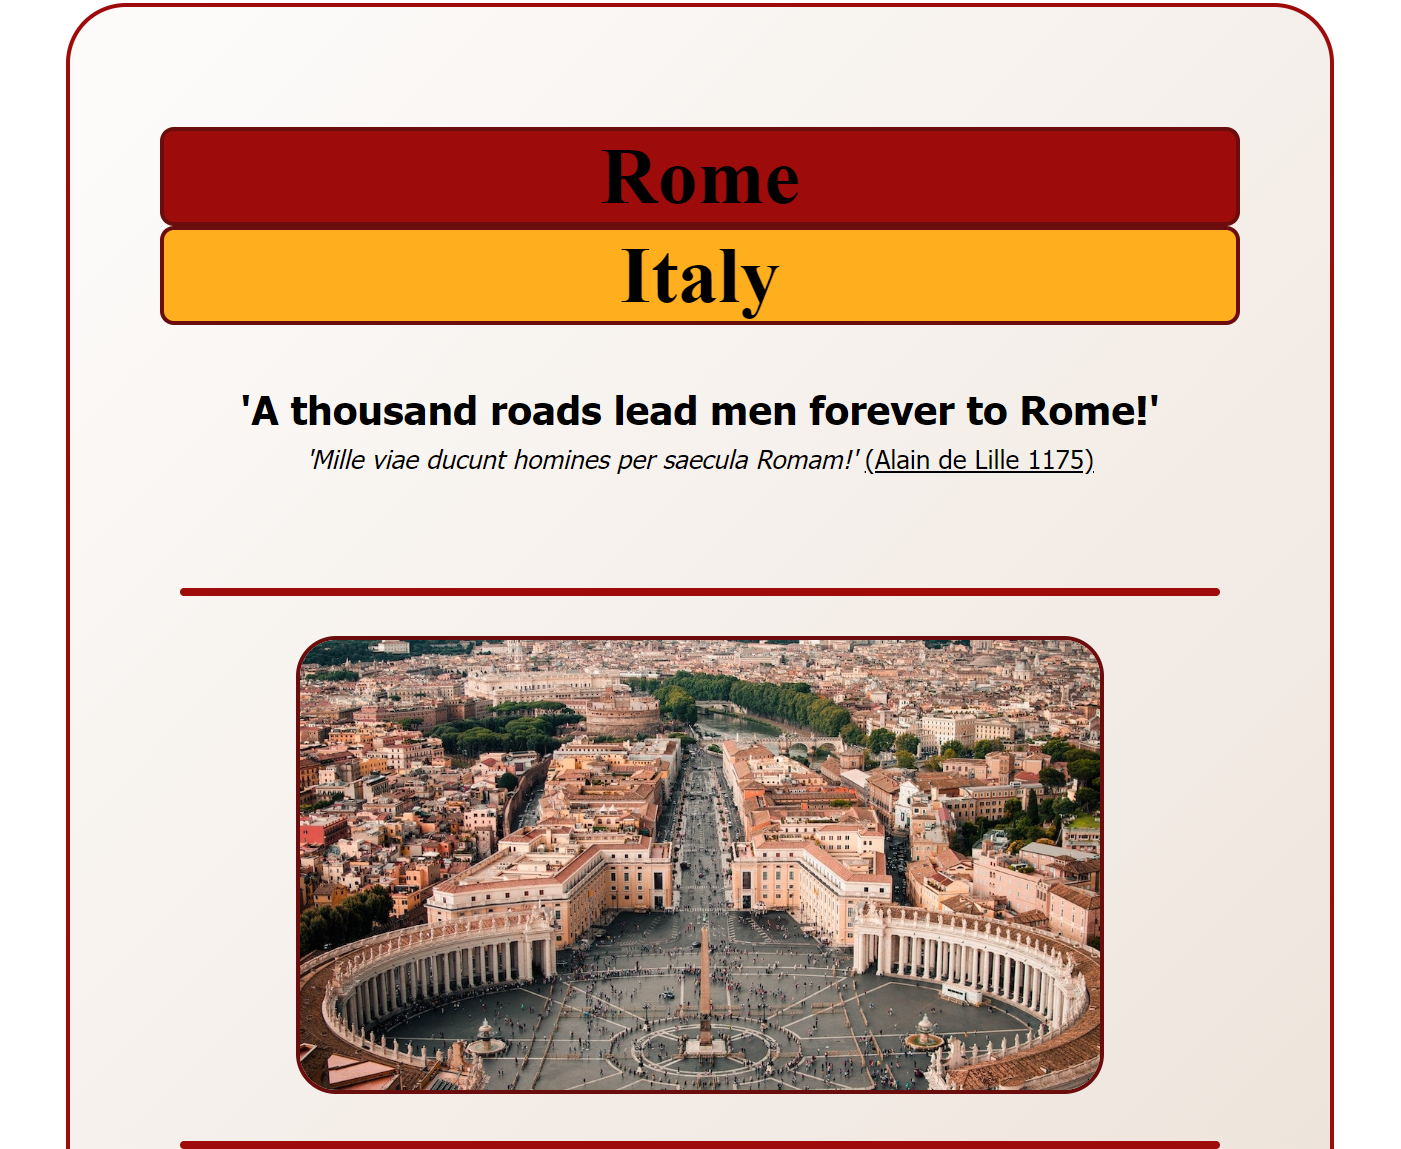
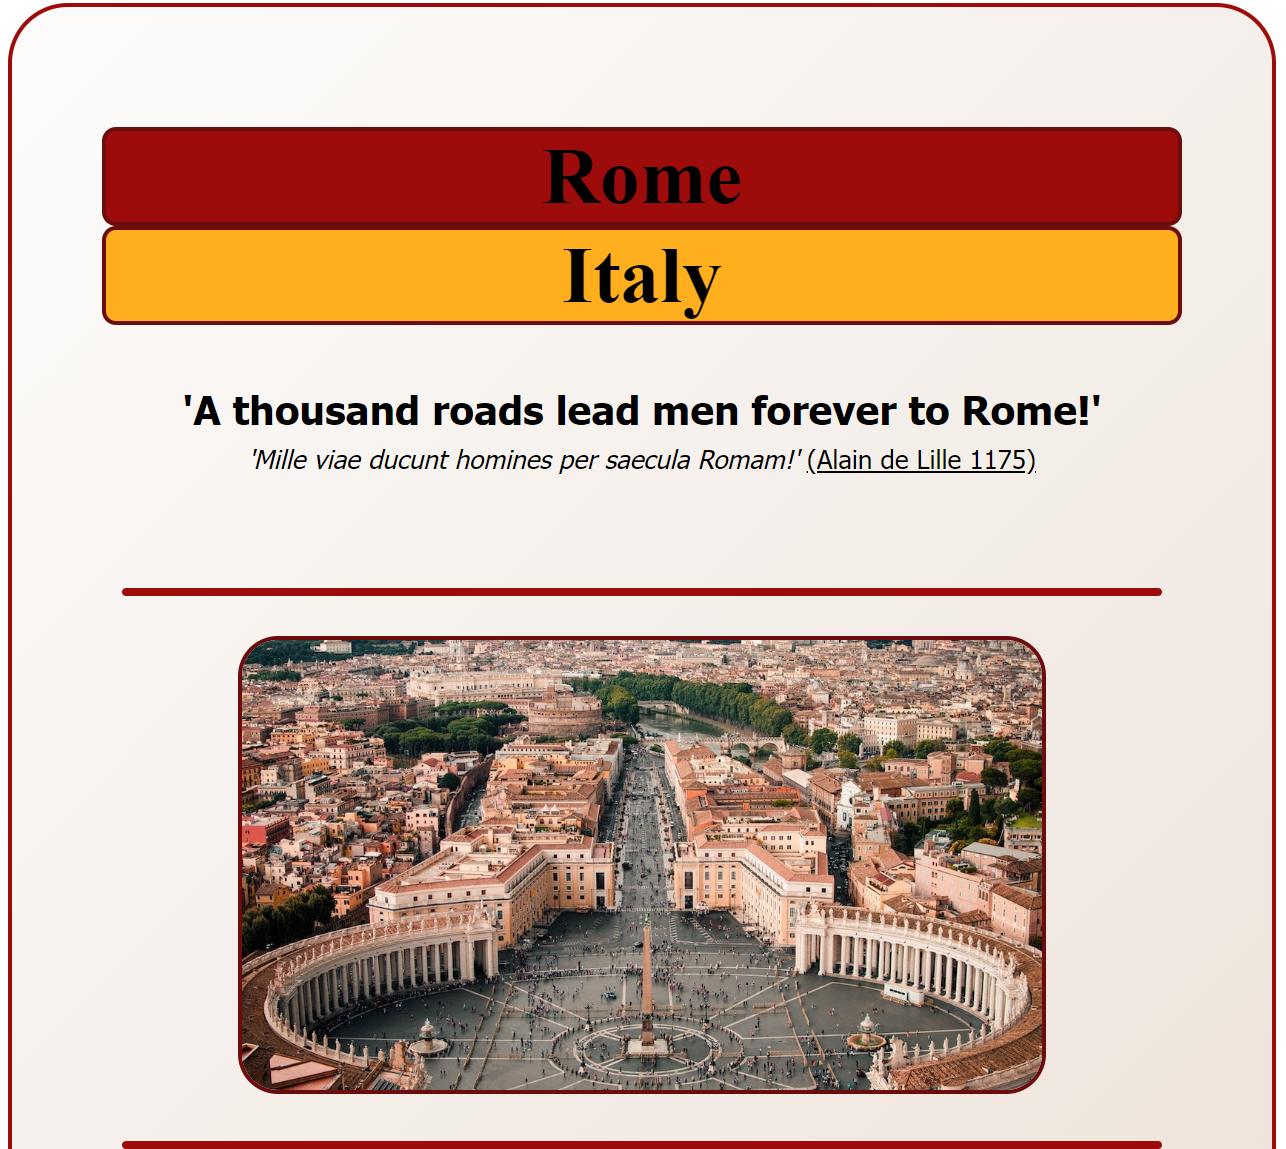
Updated CSS

diff --git a/index.html b/index.html
@@ -79,7 +79,7 @@
                   class="nav-link"
                   title="About"
                   style="font-family: 'Oswald', sans-serif; color: #38598b"
-                  href="#"
+                  href="#about-me"
                   >about</a
                 >
               </li>
@@ -88,7 +88,7 @@
                   class="nav-link"
                   title="Projects"
                   style="font-family: 'Oswald', sans-serif; color: #38598b"
-                  href="#"
+                  href="#projects"
                   >projects</a
                 >
               </li>
@@ -137,22 +137,20 @@
     </div>
     <div class="projects-body container-fluid">
       <h2 class="my-projects" id="projects">Projects</h2>
-      <div class="container-fluid">
-        <p class="text-center mt-5">Here are some of my projects.</p>
-      </div>
       <div class="rome container-fluid text-center">
-        <div class="row">
+        <div class="row mt-5">
           <div class="col-sm-6 mt-4">
-            <h3 class="travel-heading">Travel Project</h3>
-            <img
-              src="/images/rome.png"
-              class="img-fluid rounded border"
-              alt="Image of a webpage about Rome and why move there/ SheCodes projects"
-              width="400"
-            />
+            <div class="col d-none d-sm-block">
+              <img
+                src="/images/rome.png"
+                class="img-fluid rounded border rome-img"
+                alt="Image of a webpage about Rome and why move there/ SheCodes projects"
+              />
+            </div>
           </div>
           <div class="col-sm-6 mt-4">
-            <p class="text text-start mt-5 mb-4">
+            <h3 class="travel-heading">Travel Project</h3>
+            <p class="text text-start mt-5">
               Rome, the “eternal city”, is so called because it is a place of
               great beauty, contrast and life. Rome is an ecletic city: the
               religious world centre of Catholic Church, the fabulous ruins of
@@ -165,9 +163,9 @@
             <br />
             <div class="container travel-link">
               <a
-                href="#"
-                title="Discover more about Rome project"
                 class="learn-more-about-rome text-decoration-none rounded"
+                title="Discover more about Rome project"
+                href="#"
                 >Learn more</a
               >
             </div>
@@ -176,10 +174,10 @@
       </div>
 
       <div class="weather container-fluid text-center">
-        <div class="row">
-          <div class="col-sm-6 mt-4">
+        <div class="row mt-5">
+          <div class="col-sm-6 mt-5">
             <h3 class="weather-heading">Weather Project</h3>
-            <p class="text text-start pe-4">
+            <p class="text text-start">
               Weather is something that never remains constant. Getting to know
               precise weather conditions helps people to plan out their daily
               schedule. With weather forecasting technology reaching to the
@@ -191,36 +189,38 @@
             <br />
             <div class="container weather-link">
               <a
-                href="#"
-                title="Discover more about weather-hub project"
                 class="learn-more-about-weather-hub text-decoration-none rounded"
+                title="Discover more about weather-hub project"
+                href="#"
                 >Learn more</a
               >
             </div>
           </div>
-          <div class="col-sm-6 mt-4">
-            <img
-              src="/images/weather-hub.png"
-              class="img-fluid rounded border"
-              alt="Image of the weather app/ SheCodes projects"
-              width="400"
-            />
+          <div class="col-sm-6">
+            <div class="col d-none d-sm-block">
+              <img
+                src="/images/weather-hub.png"
+                class="img-fluid rounded border weather-img"
+                alt="Image of the weather app/ SheCodes projects"
+              />
+            </div>
           </div>
         </div>
       </div>
       <div class="croissants container-fluid text-center">
         <div class="row">
+          <div class="col-sm-6 mt-5">
+            <div class="col d-none d-sm-block">
+              <img
+                src="/images/croissants.jpg"
+                class="img-fluid rounded border croissants-img"
+                alt="Image of a basket with croissants/ SheCodes projects"
+              />
+            </div>
+          </div>
           <div class="col-sm-6 mt-4">
             <h3 class="croissants-heading">Croissant Project</h3>
-            <img
-              src="/images/croissants.jpg"
-              class="img-fluid rounded border"
-              alt="Image of a basket with croissants/ SheCodes projects"
-              width="500"
-            />
-          </div>
-          <div class="col-sm-6 mt-5 mb-5">
-            <p class="text text-start mt-5">
+            <p class="text text-start">
               The croissant was inspired by the Austrian kipfel, a
               crescent-shaped baked good featuring a generous amount of butter
               or lard and sometimes sugar and almonds. According to popular
@@ -236,11 +236,11 @@
               which is a French innovation.
             </p>
             <br />
-            <div class="container croissants-link">
+            <div class="container croissants-link mb-5">
               <a
-                href="#"
-                title="Discover more the croissants project"
                 class="learn-more-about-croissants text-decoration-none rounded"
+                title="Discover more about the croissants project"
+                href="#"
                 >Learn more</a
               >
             </div>

diff --git a/design/styles.css b/design/styles.css
@@ -28,7 +28,7 @@ small {
 }
 h2 {
   color: var(--headings-color);
-  font-size: 40px;
+  font-size: 60px;
   font-family: "Oswald", sans-serif;
   font-weight: bold;
   text-align: center;
@@ -36,6 +36,9 @@ h2 {
 }
 h3 {
   color: var(--headings-color);
+  font-size: 40px;
+  font-family: "Oswald", sans-serif;
+  font-weight: bold;
   text-align: center;
   margin: 20px;
 }
@@ -101,23 +104,41 @@ p {
 .learn-more-about-croissants {
   background: var(--headings-color);
   color: var(--primary-color);
+  font-size: 20px;
   padding: 15px 20px;
 }
+.rome-img {
+  width: 500px;
+  margin-top: 50px;
+}
+.weather-img {
+  width: 500px;
+  margin-top: 40px;
+}
+.croissants-img {
+  width: 600px;
+  margin-top: 80px;
+}
 
-@media (max-width: 600px) {
+@media (max-width: 900px) {
   h1,
   small {
     font-size: 65px;
   }
   h3 {
-    font-size: 20px;
+    font-size: 30px;
     margin: 0;
   }
   p {
-    font-size: 18px;
+    font-size: 20px;
   }
   .projects-body {
     padding: 0;
+  }
+  .travel-heading,
+  .weather-heading,
+  .croissants-heading {
+    margin-top: 0;
   }
 
   .travel-link,
@@ -132,6 +153,7 @@ p {
   .learn-more-about-croissants {
     padding: 15px 110px;
   }
+
   .discover-more-link {
     padding: 15px 83px;
   }
